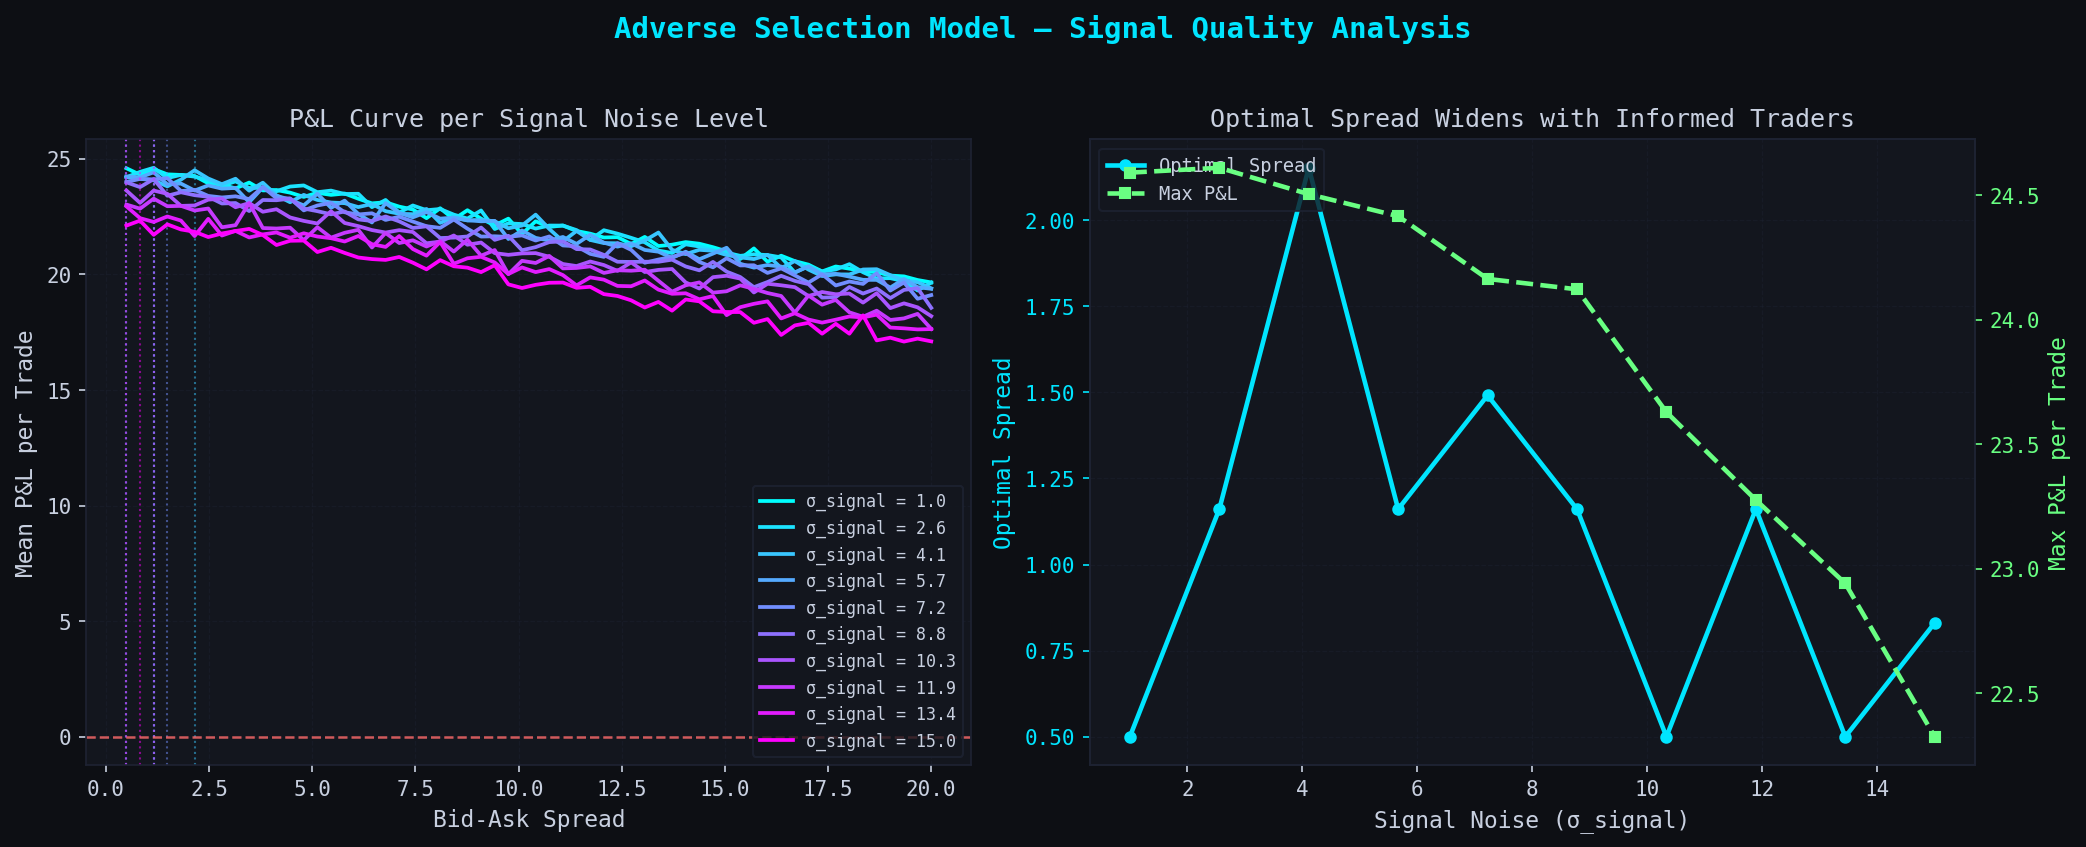
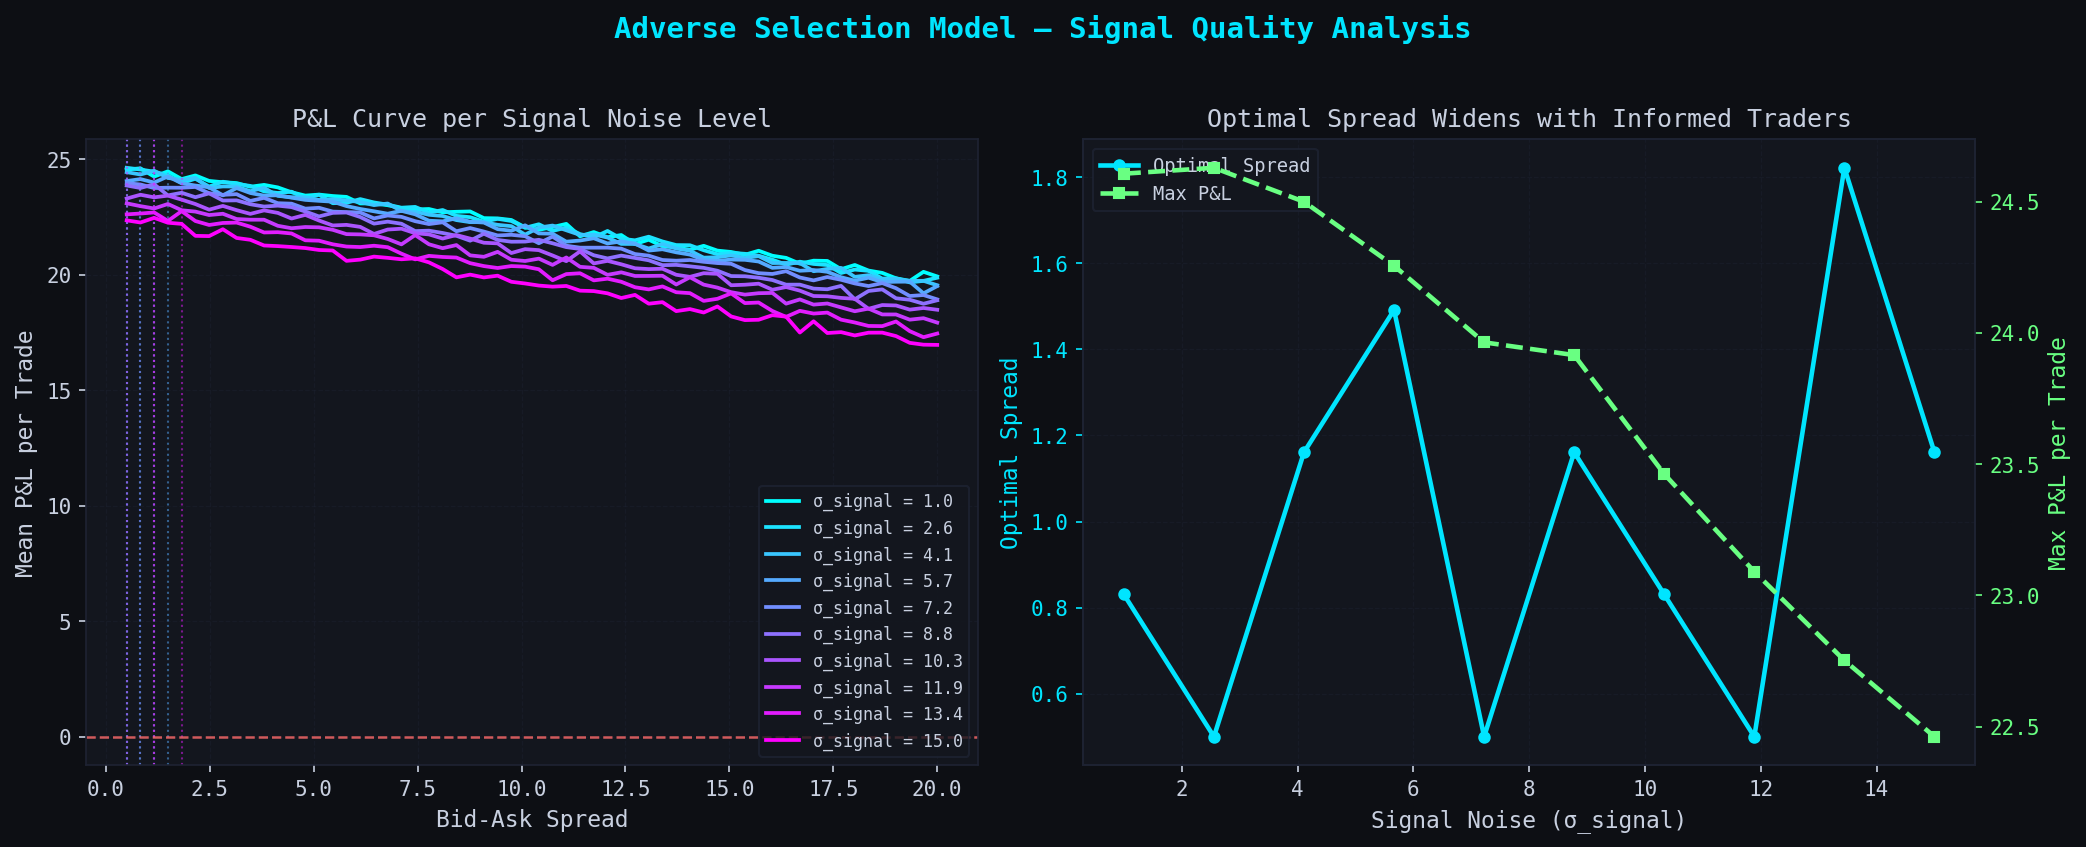
fixes error

diff --git a/README.md b/README.md
@@ -1,5 +1,13 @@
 # Adverse Selection & Optimal Spread in Market Making
 
+![Python](https://img.shields.io/badge/Python-3.9%2B-blue?style=flat-square&logo=python)
+![NumPy](https://img.shields.io/badge/NumPy-1.24%2B-blue?style=flat-square)
+![Matplotlib](https://img.shields.io/badge/Matplotlib-3.7%2B-orange?style=flat-square)
+![Status](https://img.shields.io/badge/STATUS-COMPLETE-00C853?style=flat-square)
+![Domain](https://img.shields.io/badge/DOMAIN-Market%20Microstructure-blueviolet?style=flat-square)
+
+---
+
 ## Overview
 
 This project models the core tension in market making: **tight spreads attract flow but lose money to informed traders**. It implements two complementary frameworks:
